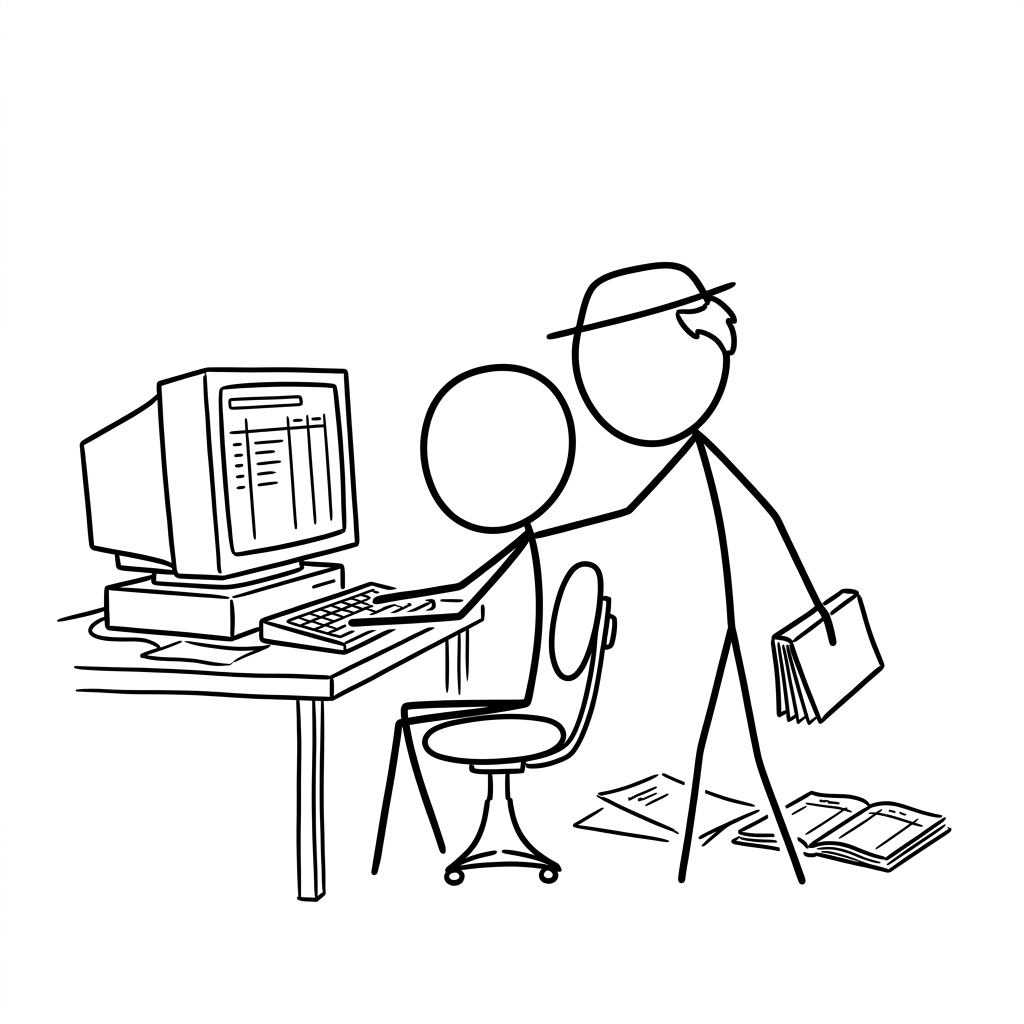
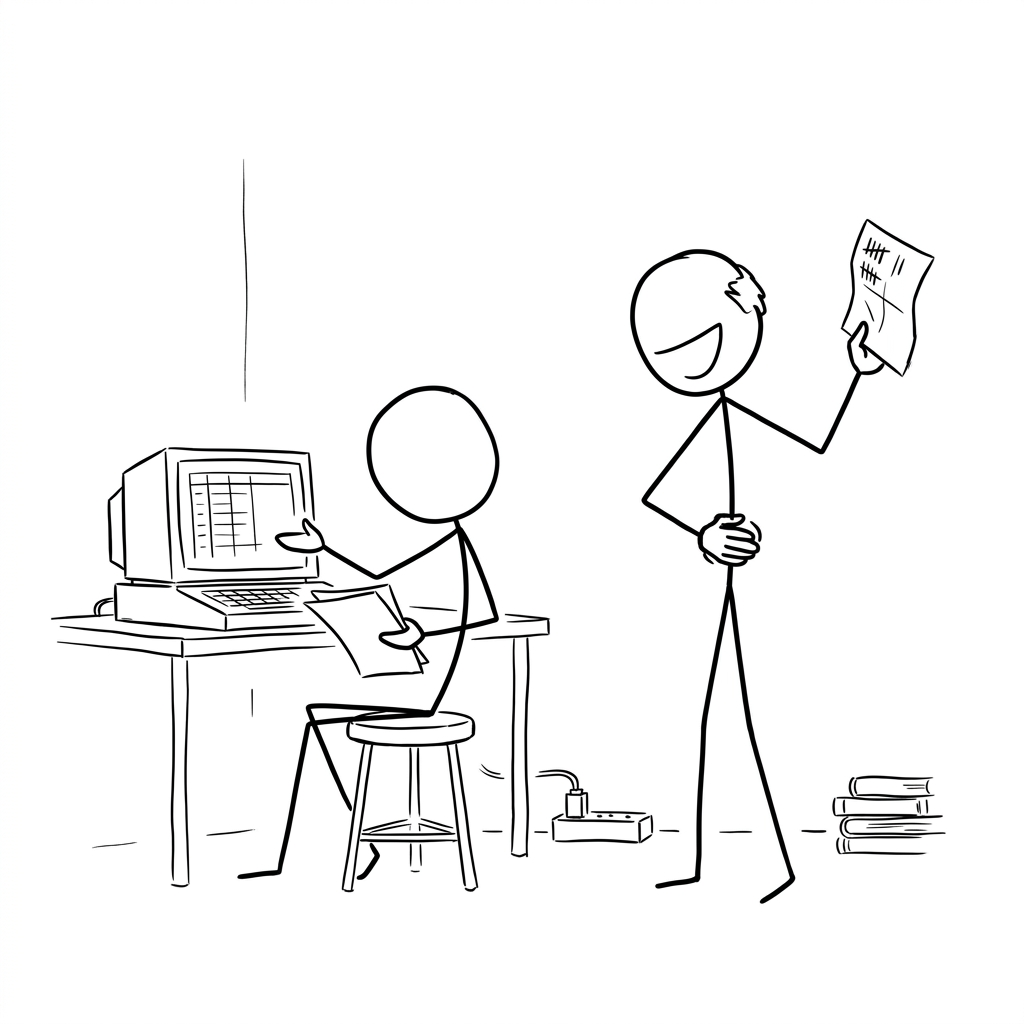
Smooth scroll collapsing, presenter sync fix, slide splits, new images
- Increase visibility margin to 3 screens, debounce to 300ms for smoother scrolling
- Fix _scroll_to_slide_id: collapse/expand around target for accurate positioning
- Expand initial 4 screens of rows on startup
- Split Let's Build into Never Before + Let's Build slides
- New and updated slide images

diff --git a/slide_editor.py b/slide_editor.py
@@ -1573,7 +1573,7 @@ class SlideEditorApp:
             sb.set(*args)
             if self._vis_update_job is not None:
                 root.after_cancel(self._vis_update_job)
-            self._vis_update_job = root.after(100, self._update_row_visibility)
+            self._vis_update_job = root.after(300, self._update_row_visibility)
 
         self._scroll_canvas.configure(yscrollcommand=_on_scroll_changed)
 
@@ -1951,7 +1951,7 @@ class SlideEditorApp:
             view_top = int(yview[0] * total_h)
             view_bot = int(yview[1] * total_h)
             # Add generous margin so rows expand before they scroll into view
-            margin = canvas_h
+            margin = canvas_h * 3
             vis_top = max(0, view_top - margin)
             vis_bot = view_bot + margin
         except tk.TclError:
@@ -2026,18 +2026,28 @@ class SlideEditorApp:
         if not sid:
             return
         rows = getattr(self, "rows", None) or []
-        target = next((r for r in rows if r.slide_id == sid), None)
-        if target is None:
+        target_idx = None
+        for i, r in enumerate(rows):
+            if r.slide_id == sid:
+                target_idx = i
+                break
+        if target_idx is None:
             return
 
-        # Expand the target and a few neighbors so the scroll position is meaningful.
-        target_idx = next((i for i, r in enumerate(rows) if r.slide_id == sid), None)
-        if target_idx is not None:
-            for i in range(max(0, target_idx - 2), min(len(rows), target_idx + 5)):
-                rows[i].expand()
-
+        target = rows[target_idx]
         canvas = self._scroll_canvas
+
         try:
+            # Expand the target and a window around it; collapse everything else.
+            # This gives us an accurate y-position for the target.
+            vis_start = max(0, target_idx - 5)
+            vis_end = min(len(rows), target_idx + 8)
+            for i, r in enumerate(rows):
+                if vis_start <= i < vis_end:
+                    r.expand()
+                else:
+                    r.collapse()
+
             canvas.update_idletasks()
             bbox = canvas.bbox("all")
             if not bbox:
@@ -2046,9 +2056,10 @@ class SlideEditorApp:
             if total_h <= 0:
                 return
             y = max(0, target.winfo_y() - 8)
-            canvas.yview_moveto(max(0.0, min(1.0, y / total_h)))
             canvas.configure(scrollregion=bbox)
-            # Trigger visibility update to collapse rows that are now off-screen
+            canvas.yview_moveto(max(0.0, min(1.0, y / total_h)))
+
+            # Deferred: re-run full visibility check to expand/collapse based on final viewport
             if self._vis_update_job is not None:
                 self.root.after_cancel(self._vis_update_job)
             self._vis_update_job = self.root.after(200, self._update_row_visibility)
@@ -2257,7 +2268,7 @@ class SlideEditorApp:
         except tk.TclError:
             canvas_h = 800
         # Expand rows until we fill roughly 2 screens worth
-        budget = canvas_h * 2
+        budget = canvas_h * 4
         used = 0
         for row in self.rows:
             row.expand()
